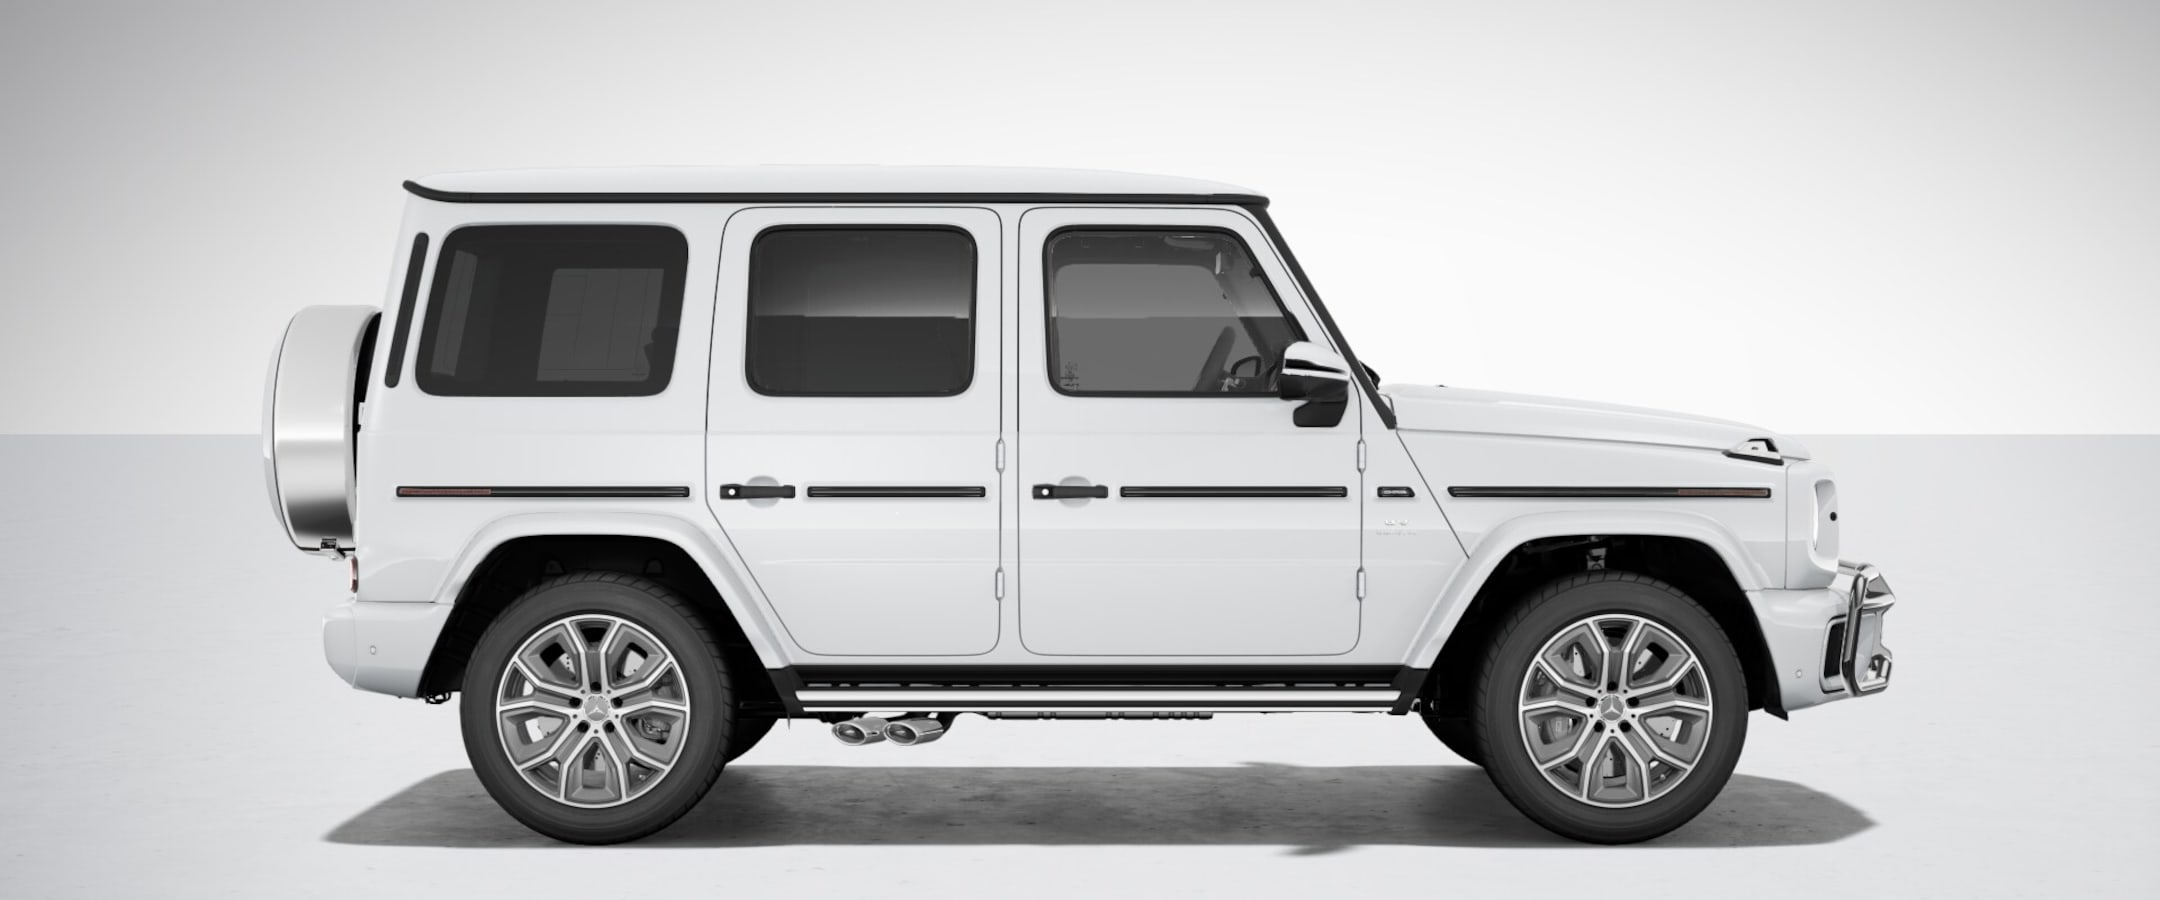
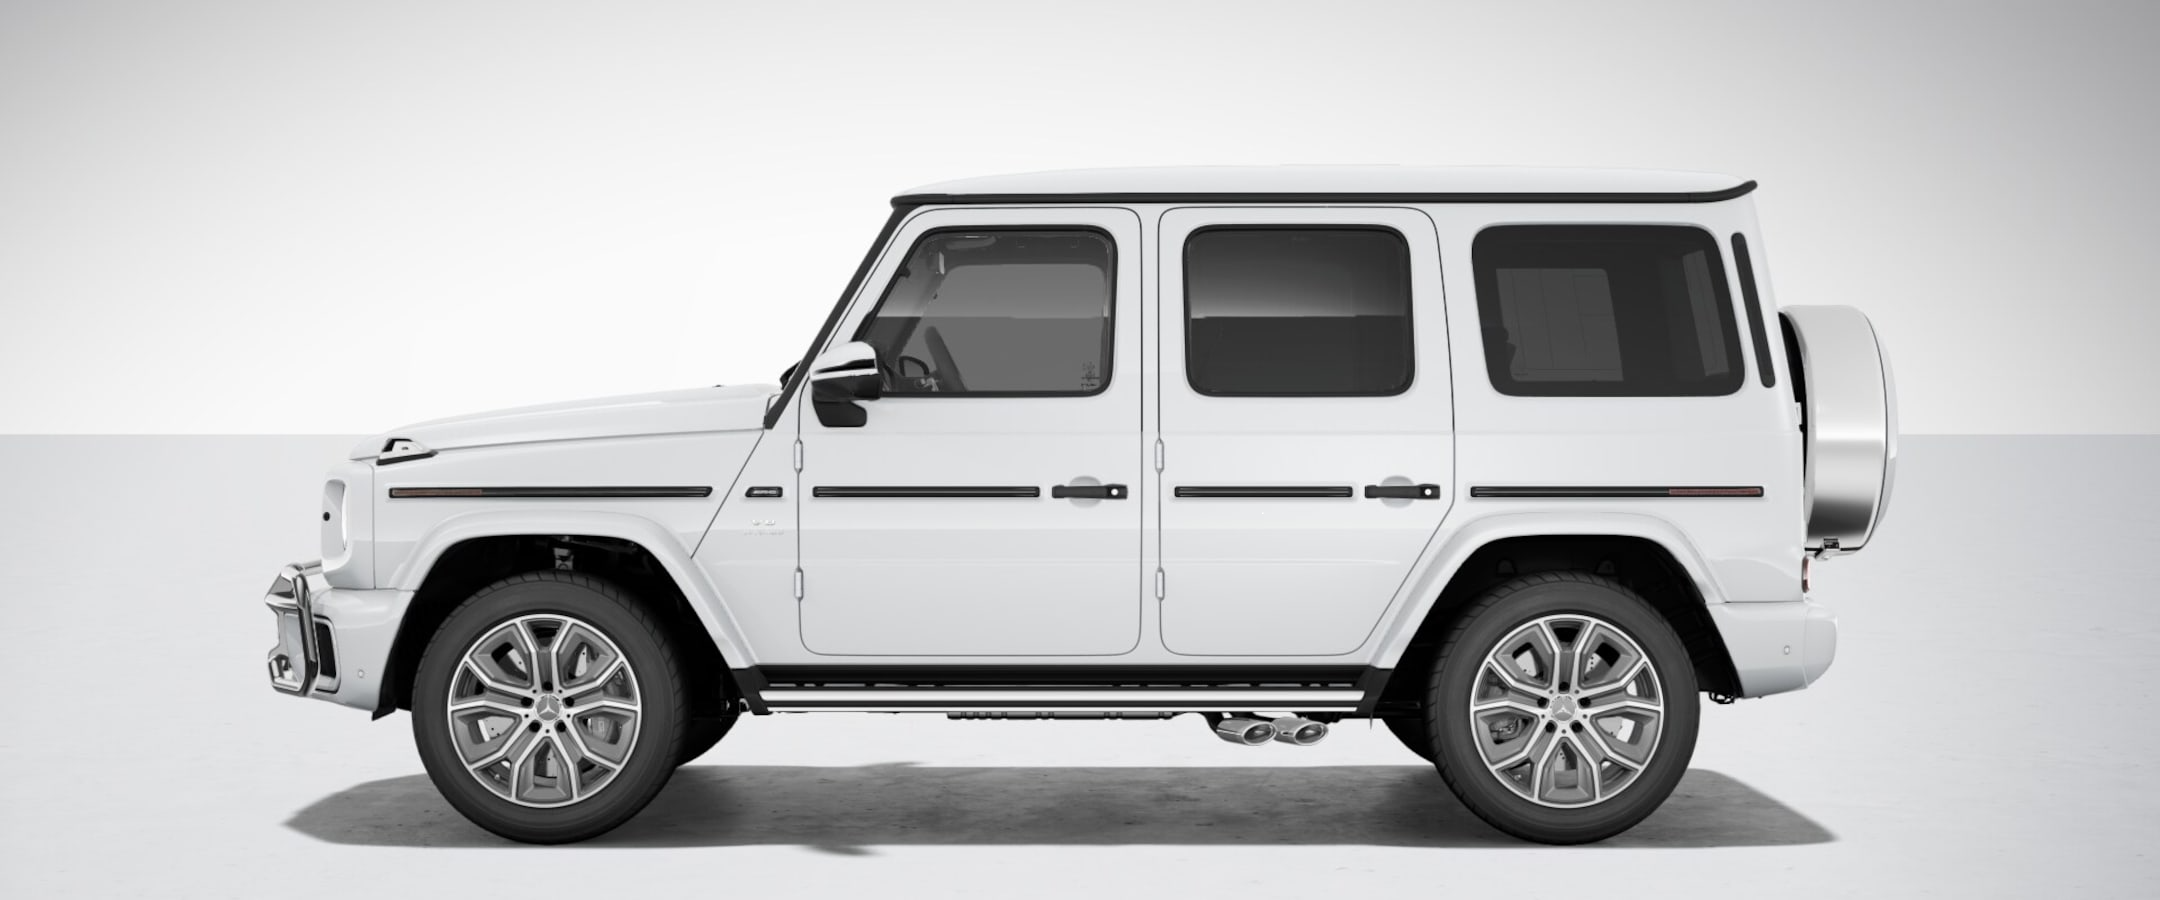
sound clips added for each car

diff --git a/src/data/cars.js b/src/data/cars.js
@@ -4,40 +4,6 @@ const proxyImage = (url) => {
   if (url.startsWith("/media/")) {
     return url;
   }
-
-  if (normalized.includes("porsche")) {
-    return "https://images.unsplash.com/photo-1598814165187-ed79437d7490?fm=jpg&q=60&w=3000&auto=format&fit=crop&ixlib=rb-4.1.0&ixid=M3wxMjA3fDB8MHxzZWFyY2h8N3x8cG9yc2NoZXxlbnwwfHwwfHx8MA%3D%3D";
-  }
-
-  if (normalized.includes("mercedes")) {
-    return "https://images.unsplash.com/photo-1686730540270-93f2c33351b6?w=1600&auto=format&fit=crop&q=80&ixlib=rb-4.1.0&ixid=M3wxMjA3fDB8MHxzZWFyY2h8MXx8Y2FyfGVufDB8fDB8fHww";
-  }
-
-  if (normalized.includes("bmw")) {
-    return "https://images.unsplash.com/photo-1580273916550-e323be2ae537?w=1600&auto=format&fit=crop&q=80&ixlib=rb-4.1.0&ixid=M3wxMjA3fDB8MHxzZWFyY2h8Mnx8Y2FyfGVufDB8fDB8fHww";
-  }
-
-  if (normalized.includes("audi")) {
-    return "https://images.unsplash.com/photo-1568605117036-5fe5e7bab0b7?w=1600&auto=format&fit=crop&q=80&ixlib=rb-4.1.0&ixid=M3wxMjA3fDB8MHxzZWFyY2h8NHx8Y2FyfGVufDB8fDB8fHww";
-  }
-
-  if (normalized.includes("ferrari")) {
-    return "https://images.unsplash.com/photo-1494976388531-d1058494cdd8?fm=jpg&q=60&w=3000&auto=format&fit=crop&ixlib=rb-4.1.0&ixid=M3wxMjA3fDB8MHxzZWFyY2h8Nnx8Y2FyfGVufDB8fDB8fHww";
-  }
-
-  if (normalized.includes("lamborghini")) {
-    return "https://images.unsplash.com/photo-1611651338412-8403fa6e3599?fm=jpg&q=60&w=3000&auto=format&fit=crop&ixlib=rb-4.1.0&ixid=M3wxMjA3fDB8MHxzZWFyY2h8NHx8cG9yc2NoZXxlbnwwfHwwfHx8MA%3D%3D";
-  }
-
-  if (normalized.includes("mclaren")) {
-    return "https://images.unsplash.com/photo-1611651186486-415f04eb78e4?fm=jpg&q=60&w=3000&auto=format&fit=crop&ixlib=rb-4.1.0&ixid=M3wxMjA3fDB8MHxzZWFyY2h8MTR8fHBvcnNjaGV8ZW58MHx8MHx8fDA%3D";
-  }
-
-  if (normalized.includes("bugatti")) {
-    return "https://images.unsplash.com/photo-1695192193767-54887768f845?fm=jpg&q=60&w=3000&auto=format&fit=crop&ixlib=rb-4.1.0&ixid=M3wxMjA3fDB8MHxzZWFyY2h8MTF8fHBvcnNjaGV8ZW58MHx8MHx8fDA%3D";
-  }
-
-  return url;
 };
 
 export const brands = [
@@ -48,9 +14,6 @@ export const brands = [
     model: "911 GT3",
     year: "2025",
     accentColor: "#C8102E",
-    logoUrl: proxyImage(
-      "https://upload.wikimedia.org/wikipedia/en/thumb/7/70/Porsche_logo.svg/800px-Porsche_logo.svg.png",
-    ),
     heroImage: "/media/porsche/porsche_hero.png",
     animationVideo: "/media/porsche/porsche.mp4",
     animationVideoScale: 1.15,
@@ -58,19 +21,13 @@ export const brands = [
     animationVideoWidth: "620px",
     animationVideoHeight: "210px",
     animationVideoFull: true,
-    frontImage: proxyImage(
-      "https://upload.wikimedia.org/wikipedia/commons/thumb/6/64/2022_Porsche_911_GT3_%28992%29%2C_front_8.26.22.jpg/1280px-2022_Porsche_911_GT3_%28992%29%2C_front_8.26.22.jpg",
-    ),
+    frontImage: "/media/porsche/porsche_hero.png",
     galleryImages: [
-      proxyImage(
-        "https://upload.wikimedia.org/wikipedia/commons/thumb/6/64/2022_Porsche_911_GT3_%28992%29%2C_front_8.26.22.jpg/1280px-2022_Porsche_911_GT3_%28992%29%2C_front_8.26.22.jpg",
-      ),
-      proxyImage(
-        "https://upload.wikimedia.org/wikipedia/commons/thumb/2/29/2022_Porsche_911_GT3_%28992%29%2C_rear_8.26.22.jpg/1280px-2022_Porsche_911_GT3_%28992%29%2C_rear_8.26.22.jpg",
-      ),
-      proxyImage(
-        "https://upload.wikimedia.org/wikipedia/commons/thumb/1/15/2022_Porsche_911_GT3_%28992%29%2C_interior_8.26.22.jpg/1280px-2022_Porsche_911_GT3_%28992%29%2C_interior_8.26.22.jpg",
-      ),
+      "/media/porsche/porsche_front.jpeg",
+      "/media/porsche/porsche_rear.jpeg",
+      "/media/porsche/porsche_interior.jpeg",
+      "/media/porsche/porsche_side_2.jpg",
+      "/media/porsche/porsche_side_1.jpeg",
     ],
     basicSpecs: {
       engine: "4.0L Flat-6",
@@ -103,21 +60,20 @@ export const brands = [
     model: "AMG G63",
     year: "2025",
     accentColor: "#00ADEF",
-    logoUrl: proxyImage(
-      "https://upload.wikimedia.org/wikipedia/commons/thumb/9/90/Mercedes-Logo.svg/800px-Mercedes-Logo.svg.png",
-    ),
-    heroImage: proxyImage("https://example.com/mercedes-amg-g63.jpg"),
+    heroImage: "/media/mercedes/mercedes_hero.png",
     animationVideo: "/media/mercedes/mercedes.mp4",
     animationVideoScale: 1.15,
     animationVideoPosition: "center 35%",
     animationVideoWidth: "620px",
     animationVideoHeight: "210px",
     animationVideoFull: true,
-    frontImage: proxyImage("https://example.com/mercedes-amg-g63-front.jpg"),
+    frontImage: "/media/mercedes/mercedes_hero.png",
     galleryImages: [
-      proxyImage("https://example.com/mercedes-amg-g63-front-2.jpg"),
-      proxyImage("https://example.com/mercedes-amg-g63-rear.jpg"),
-      proxyImage("https://example.com/mercedes-amg-g63-interior.jpg"),
+      "/media/mercedes/mercedes_front.png",
+      "/media/mercedes/mercedes_rear.png",
+      "/media/mercedes/mercedes_interior.png",
+      "/media/mercedes/mercedes_side_2.png",
+      "/media/mercedes/mercedes_side_1.png",
     ],
     basicSpecs: {
       engine: "4.0L V8 Biturbo",
@@ -150,31 +106,20 @@ export const brands = [
     model: "2026 M4 CS",
     year: "2026",
     accentColor: "#0066B1",
-    logoUrl: proxyImage(
-      "https://upload.wikimedia.org/wikipedia/commons/thumb/4/44/BMW.svg/800px-BMW.svg.png",
-    ),
-    heroImage: proxyImage(
-      "https://upload.wikimedia.org/wikipedia/commons/thumb/1/1b/2024_BMW_M4_CS_%28G82%29.jpg/1280px-2024_BMW_M4_CS_%28G82%29.jpg",
-    ),
+    heroImage: "/media/bmw/bmw_hero.png",
     animationVideo: "/media/bmw/bmw.mp4",
     animationVideoScale: 1.15,
     animationVideoPosition: "center 35%",
     animationVideoWidth: "620px",
     animationVideoHeight: "210px",
     animationVideoFull: true,
-    frontImage: proxyImage(
-      "https://upload.wikimedia.org/wikipedia/commons/thumb/1/1b/2024_BMW_M4_CS_%28G82%29.jpg/1280px-2024_BMW_M4_CS_%28G82%29.jpg",
-    ),
+    frontImage: "/media/bmw/bmw_hero.png",
     galleryImages: [
-      proxyImage(
-        "https://upload.wikimedia.org/wikipedia/commons/thumb/1/1b/2024_BMW_M4_CS_%28G82%29.jpg/1280px-2024_BMW_M4_CS_%28G82%29.jpg",
-      ),
-      proxyImage(
-        "https://upload.wikimedia.org/wikipedia/commons/thumb/0/0a/2024_BMW_M4_CS_%28G82%29%2C_rear.jpg/1280px-2024_BMW_M4_CS_%28G82%29%2C_rear.jpg",
-      ),
-      proxyImage(
-        "https://upload.wikimedia.org/wikipedia/commons/thumb/5/50/2024_BMW_M4_CS_%28G82%29%2C_interior.jpg/1280px-2024_BMW_M4_CS_%28G82%29%2C_interior.jpg",
-      ),
+      "/media/bmw/bmw_front.png",
+      "/media/bmw/bmw_rear.png",
+      "/media/bmw/bmw_interior.png",
+      "/media/bmw/bmw_side_2.png",
+      "/media/bmw/bmw_side_1.png",
     ],
     basicSpecs: {
       engine: "3.0L I6 TwinTurbo",
@@ -207,31 +152,20 @@ export const brands = [
     model: "R8 V10 Performance",
     year: "2025",
     accentColor: "#BB0A21",
-    logoUrl: proxyImage(
-      "https://upload.wikimedia.org/wikipedia/commons/thumb/9/92/Audi-Logo_2016.svg/800px-Audi-Logo_2016.svg.png",
-    ),
-    heroImage: proxyImage(
-      "https://upload.wikimedia.org/wikipedia/commons/thumb/0/0b/2020_Audi_R8_V10_Performance_%28facelift%2C_Type_4S%29%2C_front_8.23.20.jpg/1280px-2020_Audi_R8_V10_Performance_%28facelift%2C_Type_4S%29%2C_front_8.23.20.jpg",
-    ),
+    heroImage: "/media/audi/audi_hero.png",
     animationVideo: "/media/audi/audi.mp4",
     animationVideoScale: 1.15,
     animationVideoPosition: "center 35%",
     animationVideoWidth: "620px",
     animationVideoHeight: "210px",
     animationVideoFull: true,
-    frontImage: proxyImage(
-      "https://upload.wikimedia.org/wikipedia/commons/thumb/0/0b/2020_Audi_R8_V10_Performance_%28facelift%2C_Type_4S%29%2C_front_8.23.20.jpg/1280px-2020_Audi_R8_V10_Performance_%28facelift%2C_Type_4S%29%2C_front_8.23.20.jpg",
-    ),
+    frontImage: "/media/audi/audi_hero.png",
     galleryImages: [
-      proxyImage(
-        "https://upload.wikimedia.org/wikipedia/commons/thumb/0/0b/2020_Audi_R8_V10_Performance_%28facelift%2C_Type_4S%29%2C_front_8.23.20.jpg/1280px-2020_Audi_R8_V10_Performance_%28facelift%2C_Type_4S%29%2C_front_8.23.20.jpg",
-      ),
-      proxyImage(
-        "https://upload.wikimedia.org/wikipedia/commons/thumb/e/ef/2020_Audi_R8_V10_Performance_%28facelift%2C_Type_4S%29%2C_rear_8.23.20.jpg/1280px-2020_Audi_R8_V10_Performance_%28facelift%2C_Type_4S%29%2C_rear_8.23.20.jpg",
-      ),
-      proxyImage(
-        "https://upload.wikimedia.org/wikipedia/commons/thumb/f/f8/2020_Audi_R8_V10_Performance_%28facelift%2C_Type_4S%29%2C_interior_8.23.20.jpg/1280px-2020_Audi_R8_V10_Performance_%28facelift%2C_Type_4S%29%2C_interior_8.23.20.jpg",
-      ),
+      "/media/audi/audi_front.png",
+      "/media/audi/audi_rear.png",
+      "/media/audi/audi_interior.png",
+      "/media/audi/audi_side_2.png",
+      "/media/audi/audi_side_1.png",
     ],
     basicSpecs: {
       engine: "5.2L V10 FSI",
@@ -264,31 +198,20 @@ export const brands = [
     model: "Aventador SVJ",
     year: "2026",
     accentColor: "#F0A500",
-    logoUrl: proxyImage(
-      "https://upload.wikimedia.org/wikipedia/en/thumb/d/d9/Lamborghini_Logo.svg/800px-Lamborghini_Logo.svg.png",
-    ),
-    heroImage: proxyImage(
-      "https://upload.wikimedia.org/wikipedia/commons/thumb/8/8e/Lamborghini_Aventador_SVJ_-_Flickr_-_Alexandre_Pr%C3%A9vot_%281%29.jpg/1280px-Lamborghini_Aventador_SVJ_-_Flickr_-_Alexandre_Pr%C3%A9vot_%281%29.jpg",
-    ),
+    heroImage: "/media/lamborghini/lamborghini_hero.png",
     animationVideo: "/media/lamborghini/lamborghini.mp4",
     animationVideoScale: 1.15,
     animationVideoPosition: "center 35%",
     animationVideoWidth: "620px",
     animationVideoHeight: "210px",
     animationVideoFull: true,
-    frontImage: proxyImage(
-      "https://upload.wikimedia.org/wikipedia/commons/thumb/8/8e/Lamborghini_Aventador_SVJ_-_Flickr_-_Alexandre_Pr%C3%A9vot_%281%29.jpg/1280px-Lamborghini_Aventador_SVJ_-_Flickr_-_Alexandre_Pr%C3%A9vot_%281%29.jpg",
-    ),
+    frontImage: "/media/lamborghini/lamborghini_hero.png",
     galleryImages: [
-      proxyImage(
-        "https://upload.wikimedia.org/wikipedia/commons/thumb/8/8e/Lamborghini_Aventador_SVJ_-_Flickr_-_Alexandre_Pr%C3%A9vot_%281%29.jpg/1280px-Lamborghini_Aventador_SVJ_-_Flickr_-_Alexandre_Pr%C3%A9vot_%281%29.jpg",
-      ),
-      proxyImage(
-        "https://upload.wikimedia.org/wikipedia/commons/thumb/8/8c/Lamborghini_Aventador_SVJ_-_rear.jpg/1280px-Lamborghini_Aventador_SVJ_-_rear.jpg",
-      ),
-      proxyImage(
-        "https://upload.wikimedia.org/wikipedia/commons/thumb/f/fd/Lamborghini_Aventador_SVJ_-_interior.jpg/1280px-Lamborghini_Aventador_SVJ_-_interior.jpg",
-      ),
+      "/media/lamborghini/lamborghini_front.webp",
+      "/media/lamborghini/lamborghini_rear.webp",
+      "/media/lamborghini/lamborghini_interior.webp",
+      "/media/lamborghini/lamborghini_side_2.webp",
+      "/media/lamborghini/lamborghini_side_1.webp",
     ],
     basicSpecs: {
       engine: "6.5L V12 Naturally Aspirated",
@@ -321,31 +244,20 @@ export const brands = [
     model: "765 LT",
     year: "2026",
     accentColor: "#FF6600",
-    logoUrl: proxyImage(
-      "https://upload.wikimedia.org/wikipedia/commons/thumb/3/3a/McLaren_logo.svg/800px-McLaren_logo.svg.png",
-    ),
-    heroImage: proxyImage(
-      "https://upload.wikimedia.org/wikipedia/commons/thumb/d/d0/McLaren_765LT_-_Flickr_-_Alexandre_Pr%C3%A9vot_%281%29.jpg/1280px-McLaren_765LT_-_Flickr_-_Alexandre_Pr%C3%A9vot_%281%29.jpg",
-    ),
+    heroImage: "/media/mclaren/mclaren_hero.png",
     animationVideo: "/media/mclaren/mclaren.mp4",
     animationVideoScale: 1.15,
     animationVideoPosition: "center 35%",
     animationVideoWidth: "620px",
     animationVideoHeight: "210px",
     animationVideoFull: true,
-    frontImage: proxyImage(
-      "https://upload.wikimedia.org/wikipedia/commons/thumb/d/d0/McLaren_765LT_-_Flickr_-_Alexandre_Pr%C3%A9vot_%281%29.jpg/1280px-McLaren_765LT_-_Flickr_-_Alexandre_Pr%C3%A9vot_%281%29.jpg",
-    ),
+    frontImage: "/media/mclaren/mclaren_hero.png",
     galleryImages: [
-      proxyImage(
-        "https://upload.wikimedia.org/wikipedia/commons/thumb/d/d0/McLaren_765LT_-_Flickr_-_Alexandre_Pr%C3%A9vot_%281%29.jpg/1280px-McLaren_765LT_-_Flickr_-_Alexandre_Pr%C3%A9vot_%281%29.jpg",
-      ),
-      proxyImage(
-        "https://upload.wikimedia.org/wikipedia/commons/thumb/7/7b/McLaren_765LT_-_rear.jpg/1280px-McLaren_765LT_-_rear.jpg",
-      ),
-      proxyImage(
-        "https://upload.wikimedia.org/wikipedia/commons/thumb/2/2c/McLaren_765LT_-_interior.jpg/1280px-McLaren_765LT_-_interior.jpg",
-      ),
+      "/media/mclaren/mclaren_front.png",
+      "/media/mclaren/mclaren_rear.png",
+      "/media/mclaren/mclaren_interior.png",
+      "/media/mclaren/mclaren_side_2.png",
+      "/media/mclaren/mclaren_side_1.png",
     ],
     basicSpecs: {
       engine: "4.0L V8 Twin-Turbo",

diff --git a/src/components/HeroSection.jsx b/src/components/HeroSection.jsx
@@ -15,19 +15,6 @@ export default function HeroSection({ brand }) {
       className="relative min-h-screen flex flex-col justify-end overflow-hidden"
       style={{ background: "var(--bg)" }}
     >
-      {/* Background logo watermark */}
-      <div
-        className="absolute inset-0 flex items-center justify-end pr-16 pointer-events-none"
-        style={{ opacity: 0.04 }}
-      >
-        <img
-          src={brand.logoUrl}
-          alt=""
-          className="w-[60vw] max-w-3xl object-contain"
-          style={{ filter: "brightness(10)" }}
-        />
-      </div>
-
       {/* Accent gradient */}
       <div
         className="absolute inset-0 pointer-events-none"

diff --git a/src/components/GallerySection.jsx b/src/components/GallerySection.jsx
@@ -5,7 +5,7 @@ export default function GallerySection({ brand }) {
   const [ref, inView] = useInView();
   const [activeImg, setActiveImg] = useState(0);
 
-  const angles = ["Front", "Rear", "Interior"];
+  const angles = ["Front", "Rear", "Interior", "Right Side", "Left Side"];
 
   return (
     <section
@@ -42,7 +42,7 @@ export default function GallerySection({ brand }) {
                 key={activeImg}
                 src={brand.galleryImages[activeImg] || brand.heroImage}
                 alt={`${angles[activeImg]} view`}
-                className="w-full object-cover"
+                className="w-full object-contain"
                 style={{ height: "420px", animation: "fadeIn 0.4s ease" }}
                 onError={(e) => {
                   e.target.src = brand.heroImage;
@@ -80,7 +80,7 @@ export default function GallerySection({ brand }) {
                   <img
                     src={img}
                     alt={angles[i]}
-                    className="w-full h-full object-cover"
+                    className="w-full h-full object-contain"
                     onError={(e) => {
                       e.target.src = brand.heroImage;
                     }}